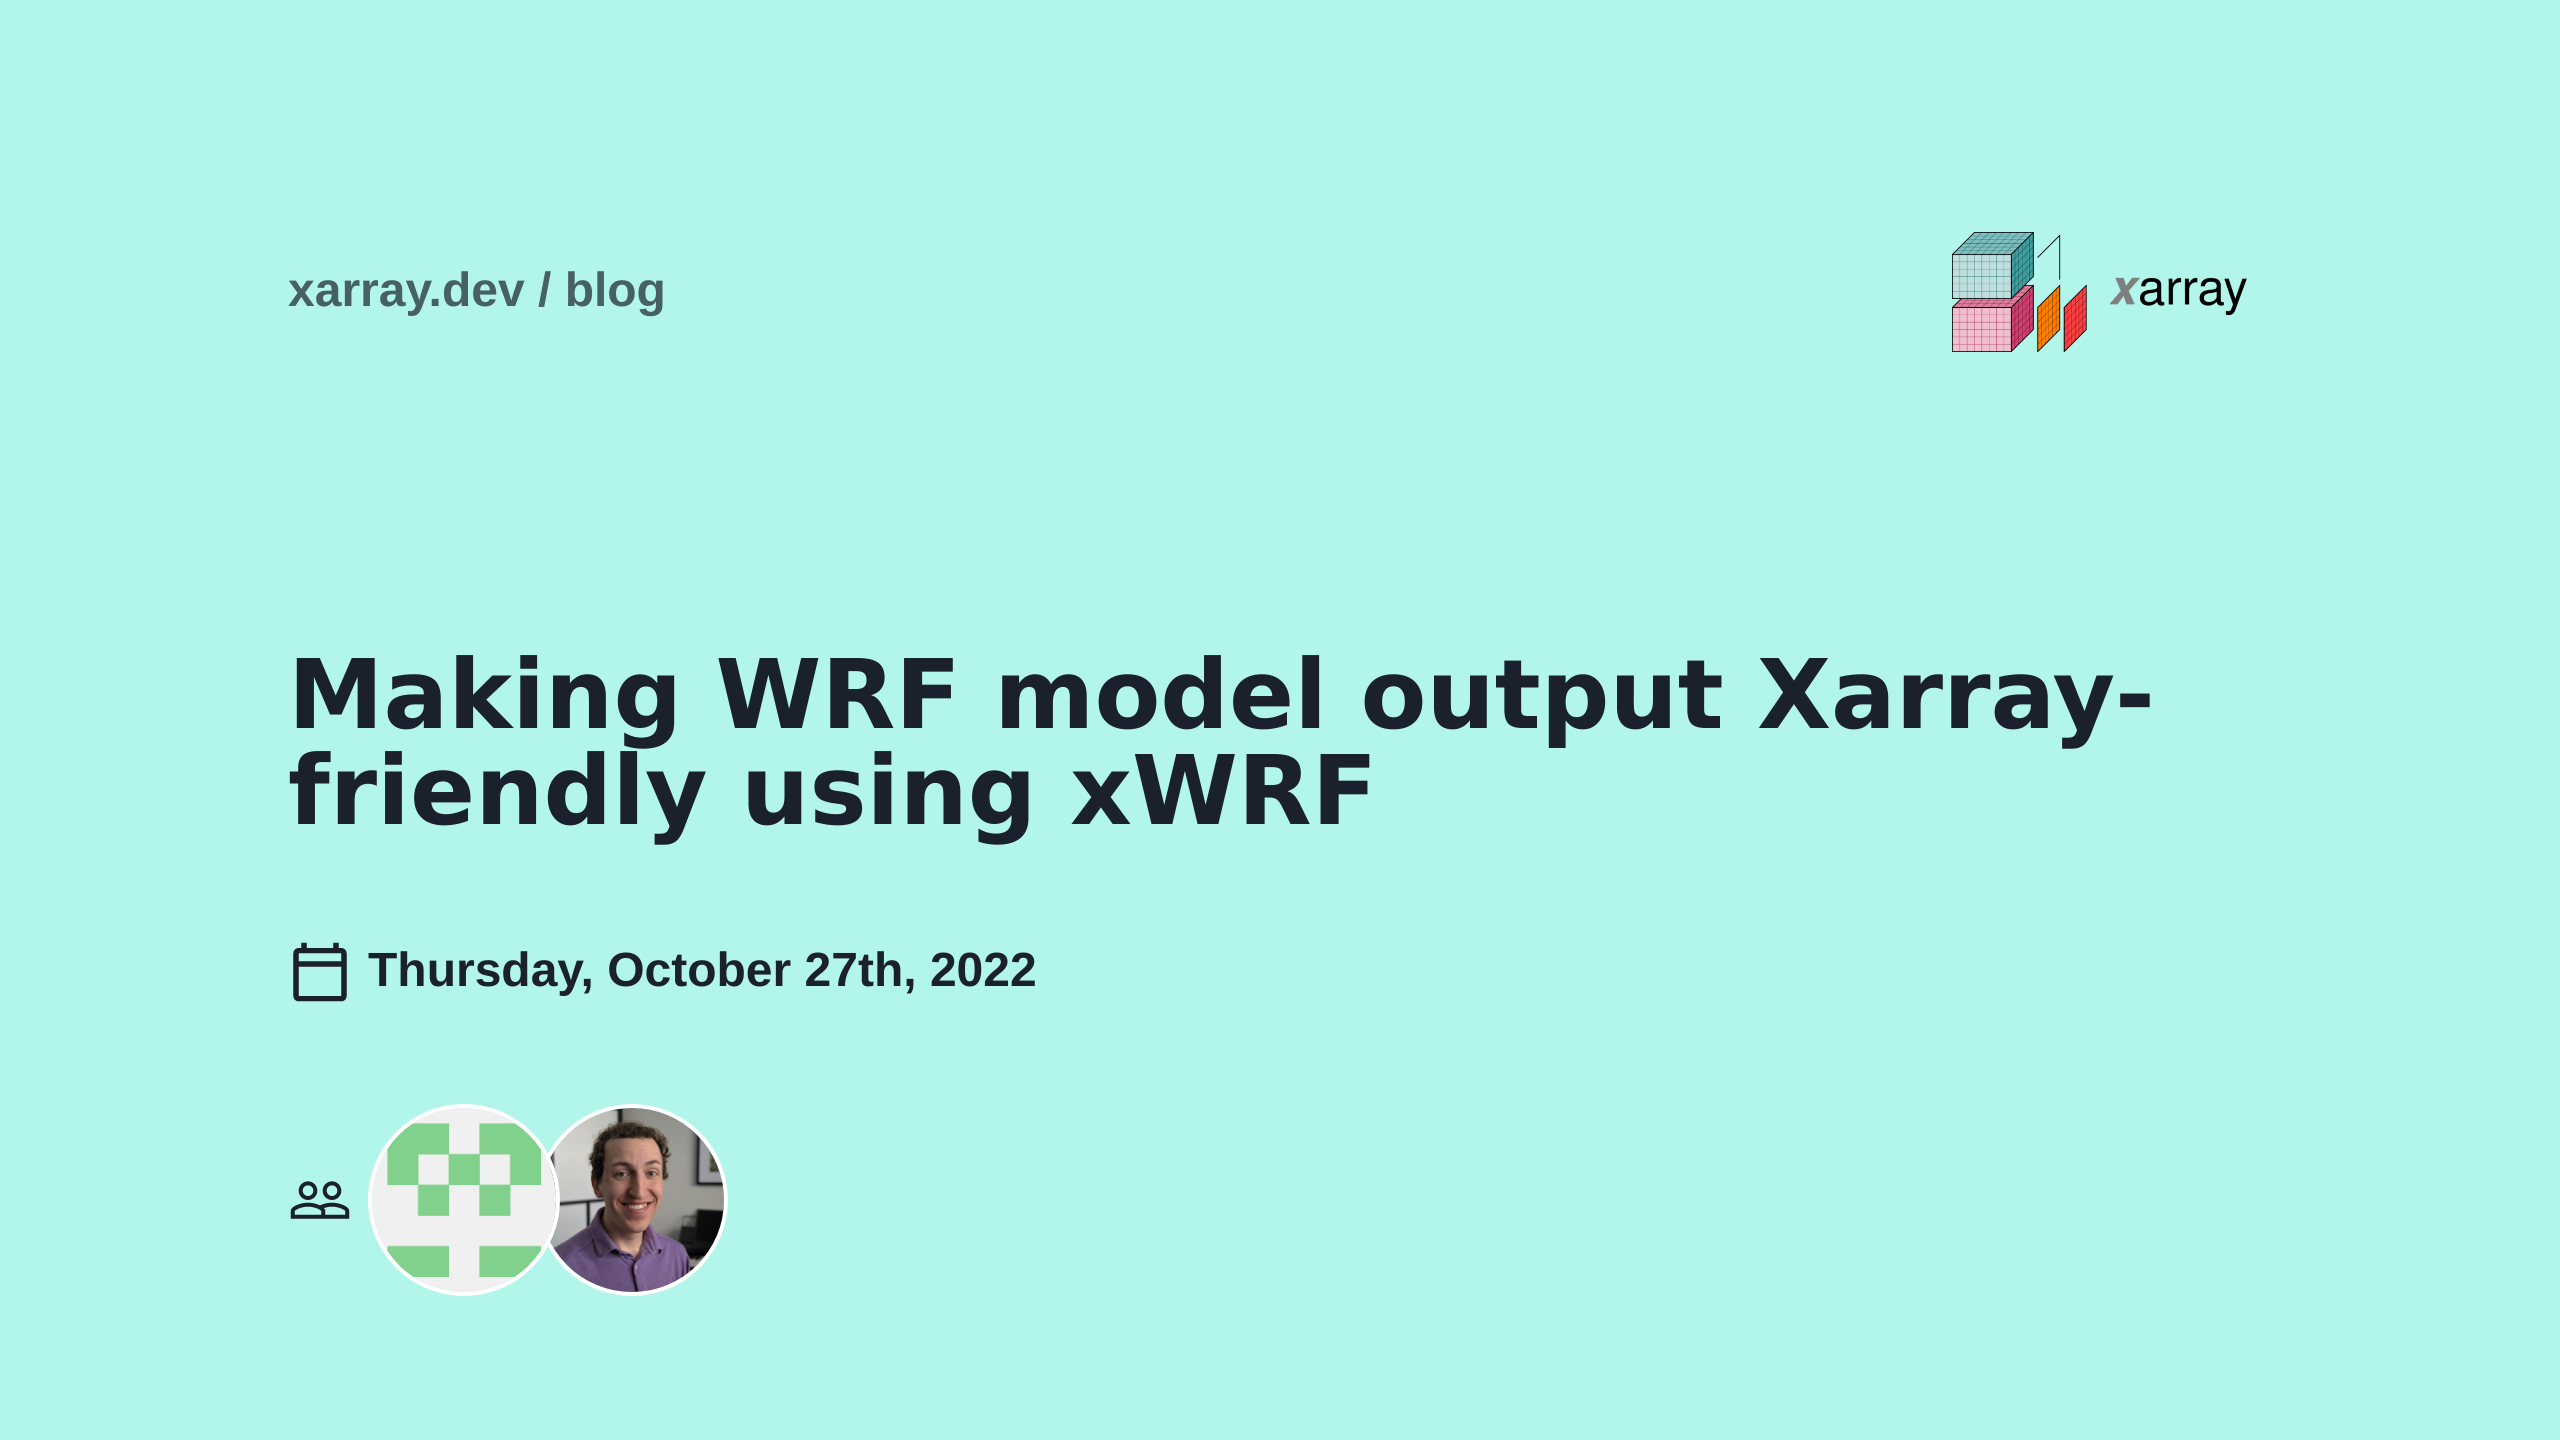
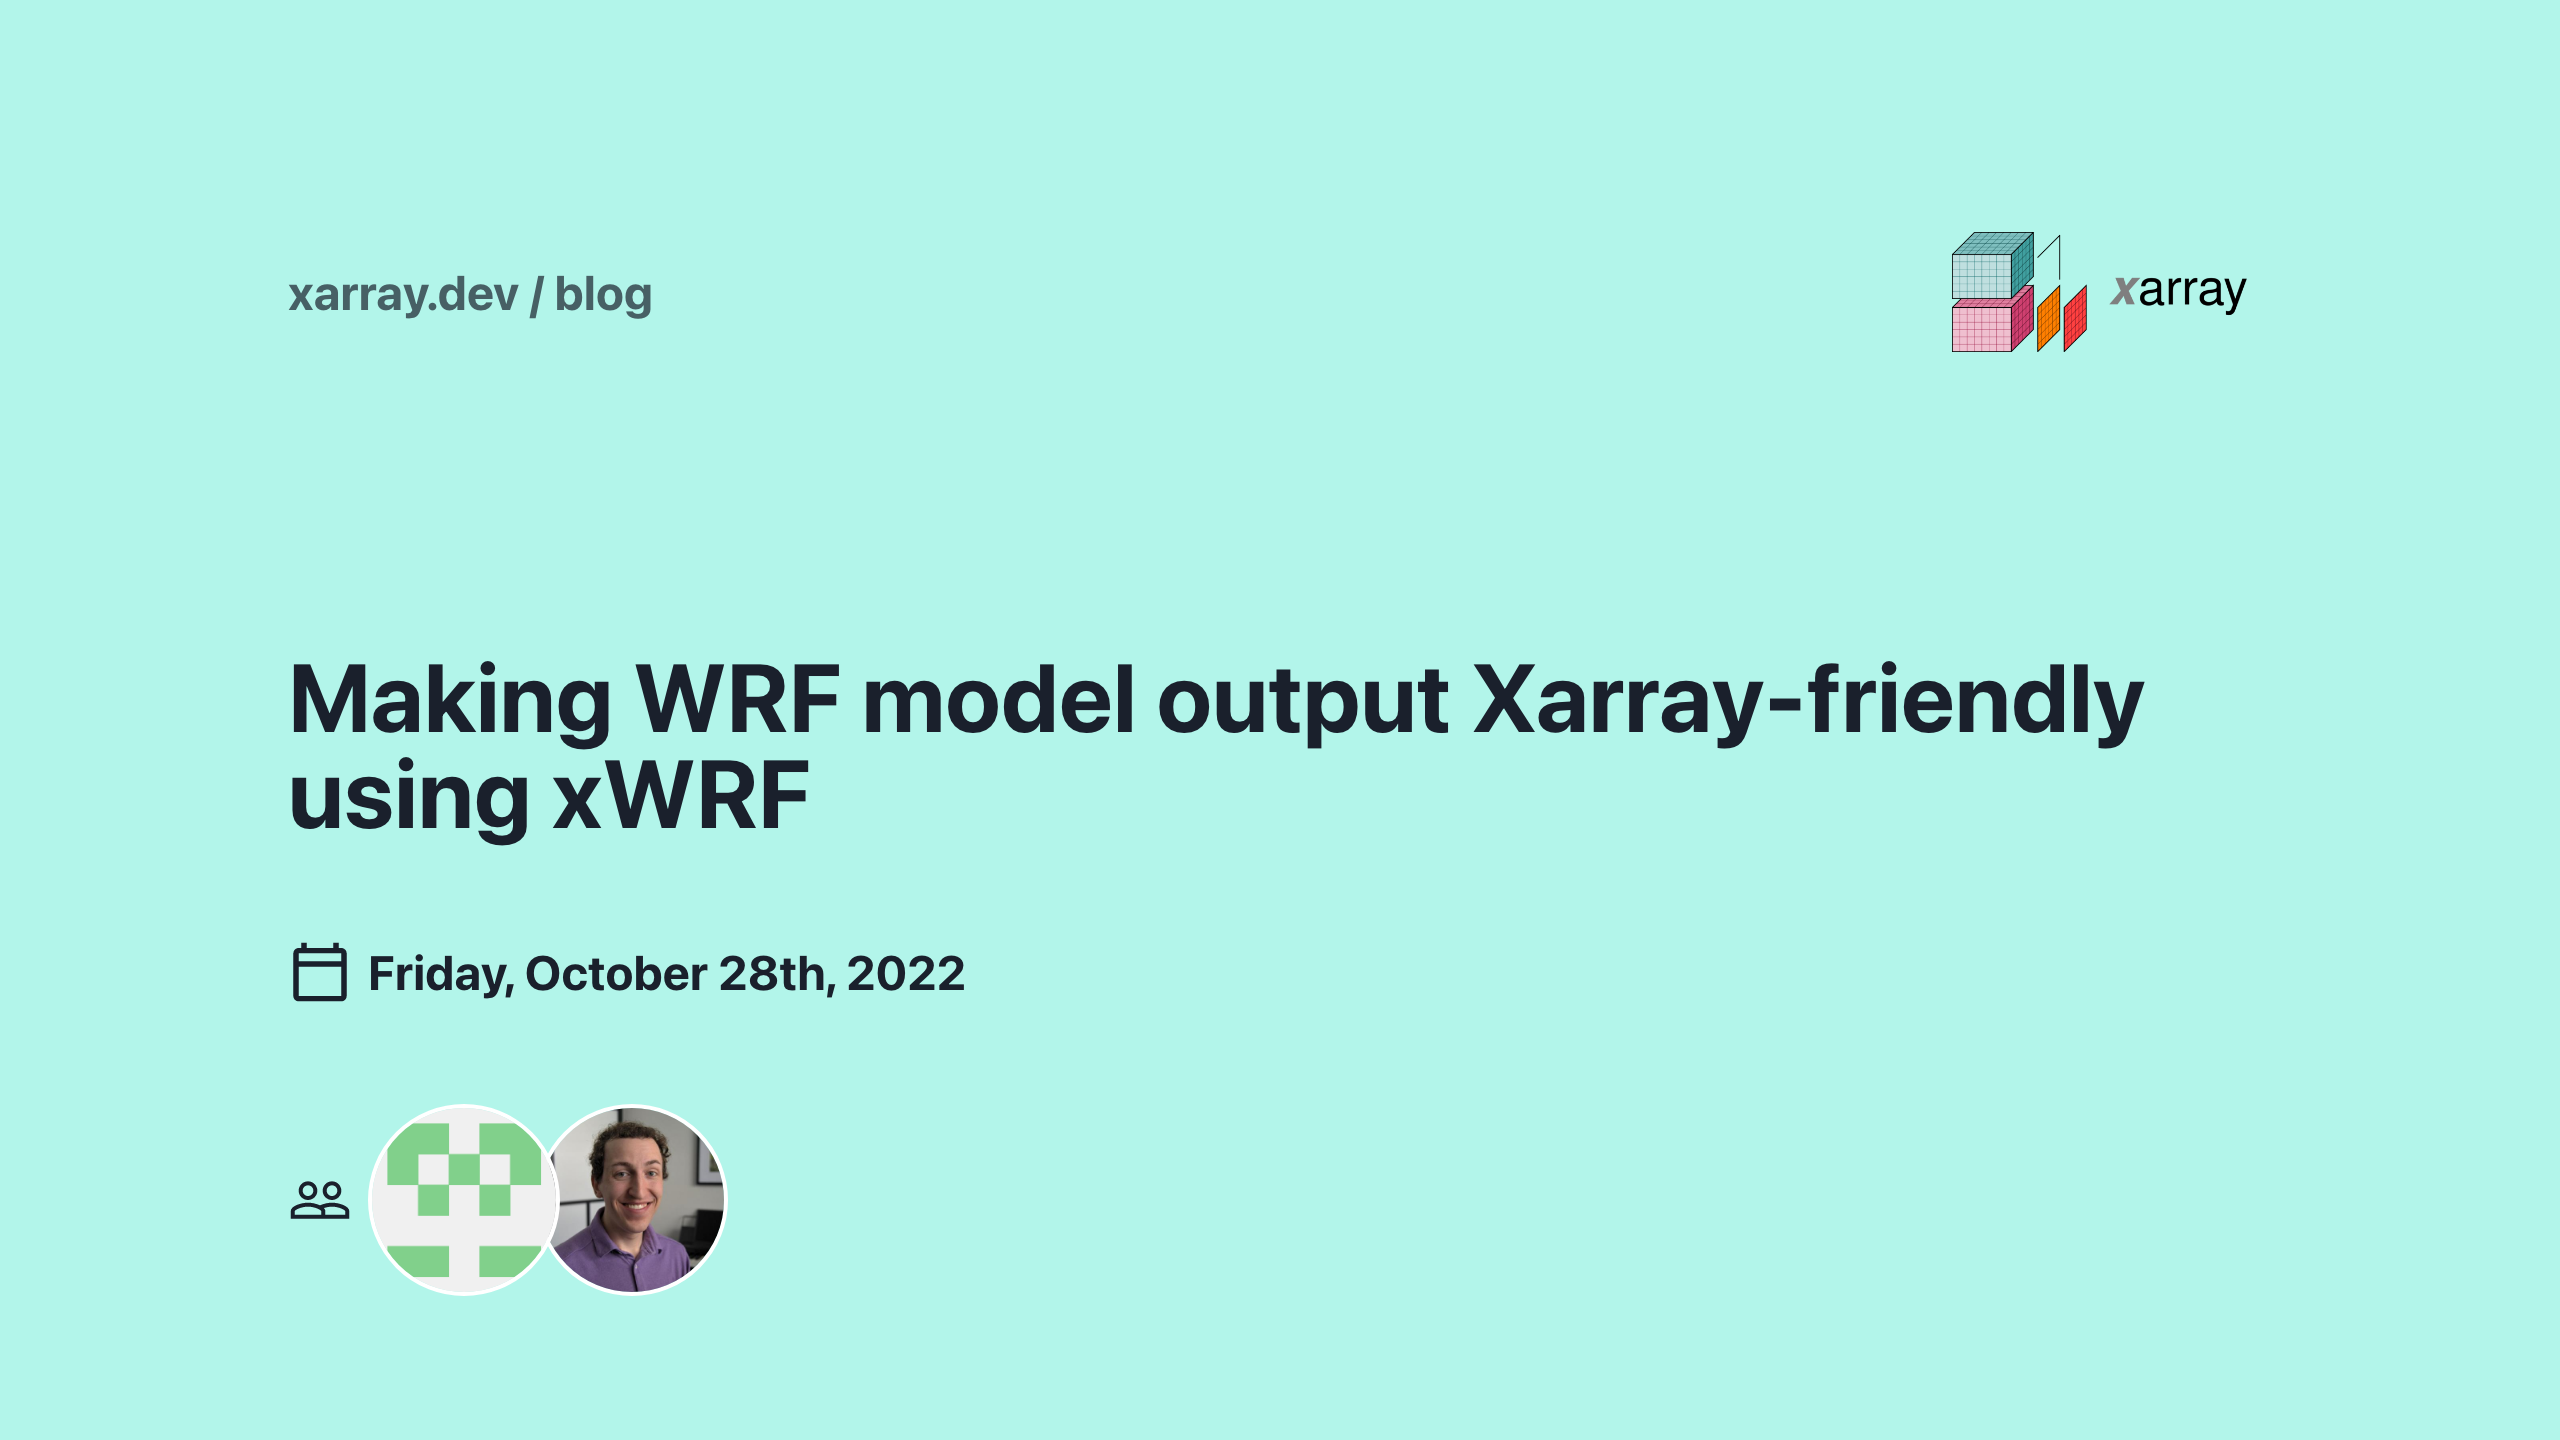
Update publication date

Changed region(s): [[0.0938, 0.4375, 0.8438, 0.5938], [0.125, 0.6562, 0.4062, 0.6875], [0.0938, 0.1875, 0.2812, 0.2188]]

diff --git a/src/posts/introducing-xwrf/index.md b/src/posts/introducing-xwrf/index.md
@@ -1,6 +1,6 @@
 ---
 title: 'Making WRF model output Xarray-friendly using xWRF'
-date: '2022-10-27'
+date: '2022-10-28'
 authors:
   - name: Lukas Pilz
     github: lpilz
